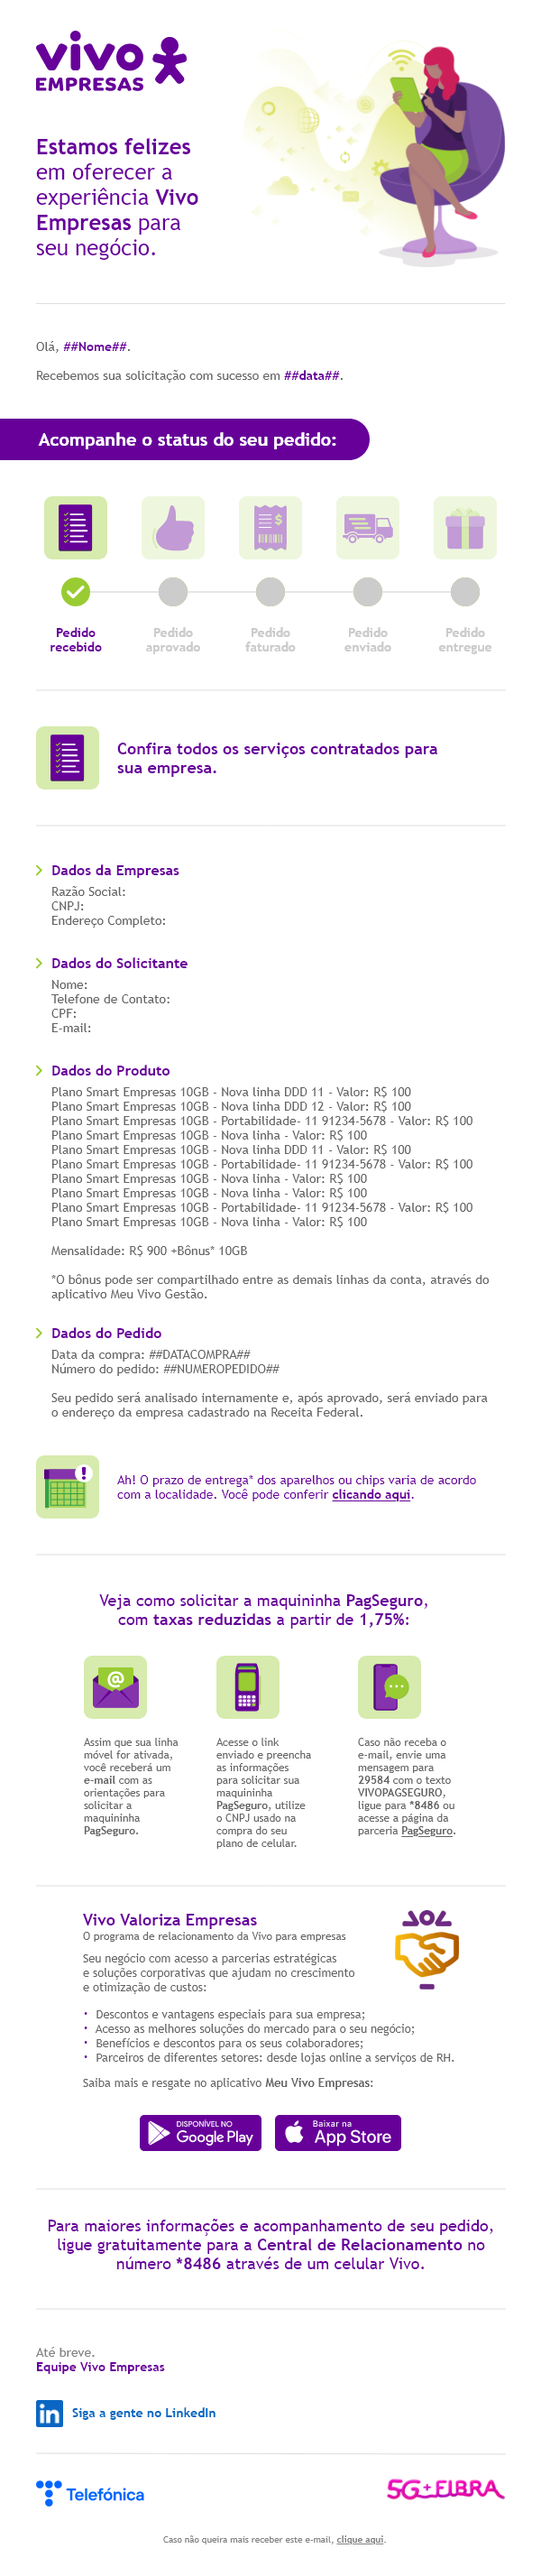
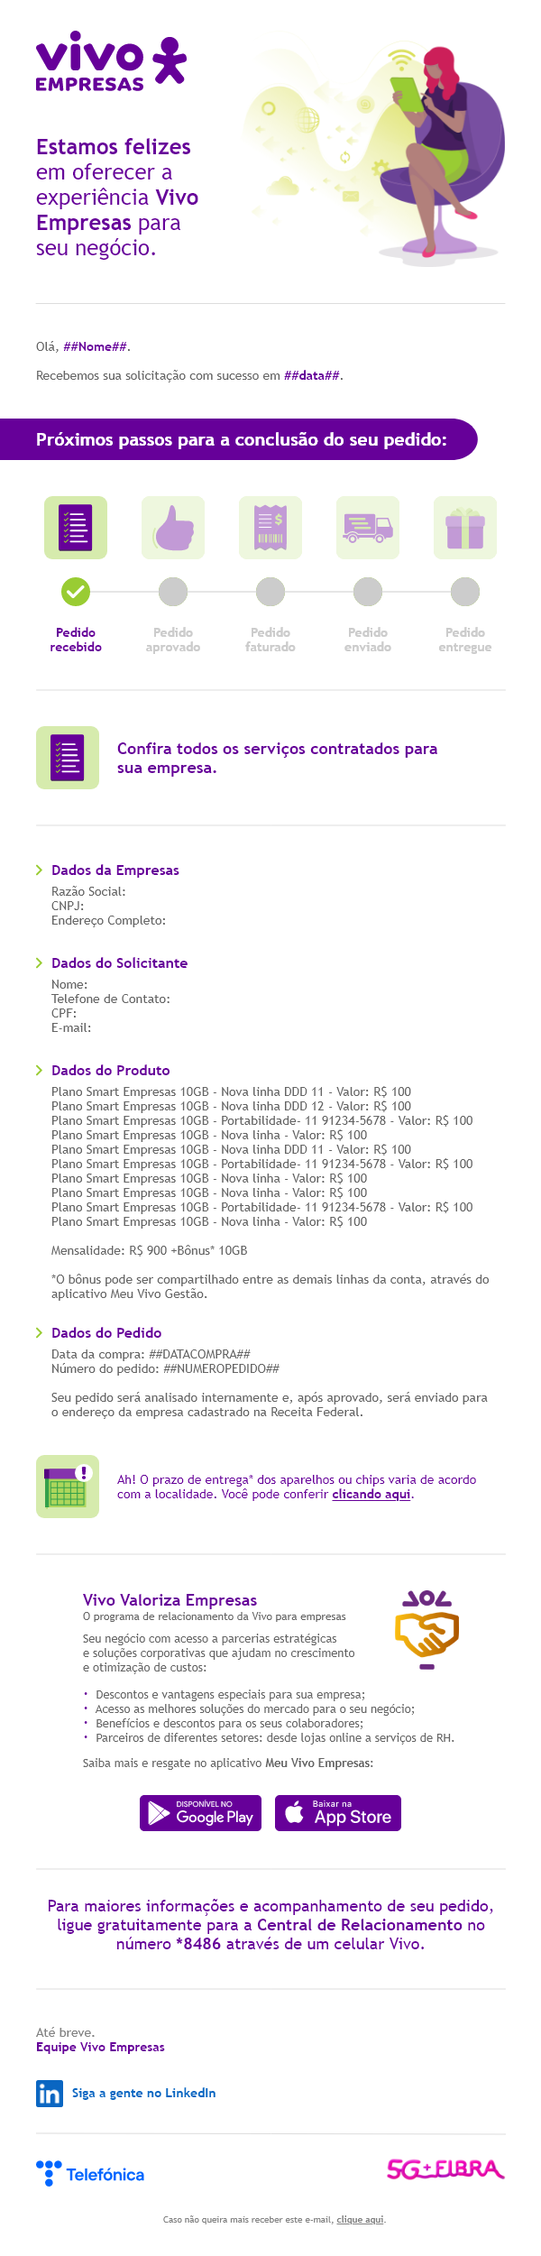
update 8780

diff --git a/2021/Vivo/073_247_8780/8780_tracking_vendas_movel_ecommerce_01_status_de_compra_hospedadas.html b/2021/Vivo/073_247_8780/8780_tracking_vendas_movel_ecommerce_01_status_de_compra_hospedadas.html
@@ -339,77 +339,8 @@
       </td>
     </tr>
     <tr>
-      <td align="center" style="padding: 40px 0 30px 0;">
-        <table border="0" cellpadding="0" cellspacing="0" width="65%">
-          <tr>
-            <td align="center">
-              <font face="Trebuchet MS, Arial, sans-serif" style="font-size: 18px; line-height: 1.2; color:#660099; display: block;">
-                Veja como solicitar a maquininha <b>PagSeguro</b>, com <b>taxas reduzidas</b> a partir de <b>1,75%</b>:
-              </font>
-            </td>
-          </tr>
-        </table>
-      </td>
-    </tr>
-    <tr>
-      <td align="center">
-        <table border="0" cellpadding="0" cellspacing="0" width="80%">
-          <tr>
-            <td>
-              <table border="0" cellpadding="0" cellspacing="0" width="110">
-                <tr>
-                  <td style="padding: 0 0 20px 0;">
-                    <img border="0" width="70" style="display: block;" src="https://www.vivo.com.br/content/dam/crm/novembro21/trackingmovel_statuscompra/mail.png" alt="">
-                  </td>
-                </tr>
-                <tr>
-                  <td height="126" valign="top">
-                    <font face="Trebuchet MS, Arial, sans-serif" style="font-size: 12px; line-height: 1.2; color:#666666; display: block;">
-                      Assim que sua linha móvel for ativada, você receberá um <b>e-mail</b> com as orientações para solicitar a maquininha <b>PagSeguro</b>.
-                    </font>
-                  </td>
-                </tr>
-              </table>
-            </td>
-            <td>
-              <table border="0" cellpadding="0" cellspacing="0" width="110">
-                <tr>
-                  <td style="padding: 0 0 20px 0;">
-                    <img border="0" width="70" style="display: block;" src="https://www.vivo.com.br/content/dam/crm/novembro21/trackingmovel_statuscompra/cell.png" alt="">
-                  </td>
-                </tr>
-                <tr>
-                  <td height="126" valign="top">
-                    <font face="Trebuchet MS, Arial, sans-serif" style="font-size: 12px; line-height: 1.2; color:#666666; display: block;">
-                      Acesse o link enviado e preencha as informações para solicitar sua maquininha <b>PagSeguro</b>, utilize o CNPJ usado na compra do seu plano de celular. 
-                    </font>
-                  </td>
-                </tr>
-              </table>
-            </td>
-            <td>
-              <table border="0" cellpadding="0" cellspacing="0" width="110">
-                <tr>
-                  <td style="padding: 0 0 20px 0;">
-                    <img border="0" width="70" style="display: block;" src="https://www.vivo.com.br/content/dam/crm/novembro21/trackingmovel_statuscompra/men.png" alt="">
-                  </td>
-                </tr>
-                <tr>
-                  <td height="126" valign="top">
-                    <font face="Trebuchet MS, Arial, sans-serif" style="font-size: 12px; line-height: 1.2; color:#666666; display: block;">
-                      Caso não receba o e-mail, envie uma mensagem para <b>29584</b> com o texto <b>VIVOPAGSEGURO</b>, ligue para <b>*8486</b> ou acesse a página da parceria <a href="https://www.vivo.com.br/para-empresas/por-que-vivo-empresas/vivo-valoriza-empresas/pagseguro?utm_source=mktcloud&utm_medium=emailmkt&utm_campaign=##ApproachStart##-Tracking-Vendas-Movel-pagseguro_vivo_b2b_movel_institucional_movel_relacionamento&utm_content=___&utm_term=##IDPlay##_" target="_blank" style="color: #666666; font-weight: bold;">PagSeguro</a>.
-                    </font>
-                  </td>
-                </tr>
-              </table>
-            </td>
-          </tr>
-        </table>
-      </td>
-    </tr>
-    <tr>
-      <td align="center" style="padding:30px 0 30px 0;">
-        <table border="0" cellpadding="0" cellspacing="0" width="88%" style="border-top: 1px solid #DDDDDD; border-bottom: 1px solid #DDDDDD;">
+      <td align="center" style="padding:20px 0 30px 0;">
+        <table border="0" cellpadding="0" cellspacing="0" width="88%">
           <tr>
             <td align="center" style="padding: 30px 0 20px 0;">
               <table border="0" cellpadding="0" cellspacing="0" width="80%" class="wd100">
@@ -479,7 +410,7 @@
             </td>
           </tr>
           <tr>
-            <td align="center" style="padding: 0 0 40px 0;">
+            <td align="center" style="padding: 0 0 10px 0;">
               <table border="0" cellpadding="0" cellspacing="0" width="70%">
                 <tr>
                   <td align="right">
@@ -504,9 +435,9 @@
     </tr>
     <tr>
       <td align="center">
-        <table  border="0" cellpadding="0" cellspacing="0" width="85%">
+        <table  border="0" cellpadding="0" cellspacing="0" width="90%" style="border-top: 1px solid #666666;">
           <tr>
-            <td align="center">
+            <td align="center" style="padding: 20px 0 0 0;">
               <font face="Trebuchet MS, Arial, sans-serif" style="font-size: 18px; line-height: 1.2; color:#660099; display: block;">
                 Para maiores informações e acompanhamento de seu pedido, ligue gratuitamente para a <b>Central de Relacionamento</b> no número <b>*8486</b> através de um celular Vivo.
               </font>

diff --git a/2021/Vivo/073_247_8780/8780_tracking_vendas_movel_ecommerce_01_status_de_compra.html b/2021/Vivo/073_247_8780/8780_tracking_vendas_movel_ecommerce_01_status_de_compra.html
@@ -339,77 +339,8 @@
       </td>
     </tr>
     <tr>
-      <td align="center" style="padding: 40px 0 30px 0;">
-        <table border="0" cellpadding="0" cellspacing="0" width="65%">
-          <tr>
-            <td align="center">
-              <font face="Trebuchet MS, Arial, sans-serif" style="font-size: 18px; line-height: 1.2; color:#660099; display: block;">
-                Veja como solicitar a maquininha <b>PagSeguro</b>, com <b>taxas reduzidas</b> a partir de <b>1,75%</b>:
-              </font>
-            </td>
-          </tr>
-        </table>
-      </td>
-    </tr>
-    <tr>
-      <td align="center">
-        <table border="0" cellpadding="0" cellspacing="0" width="80%">
-          <tr>
-            <td>
-              <table border="0" cellpadding="0" cellspacing="0" width="110">
-                <tr>
-                  <td style="padding: 0 0 20px 0;">
-                    <img border="0" width="70" style="display: block;" src="./imagens/mail.png" alt="">
-                  </td>
-                </tr>
-                <tr>
-                  <td height="126" valign="top">
-                    <font face="Trebuchet MS, Arial, sans-serif" style="font-size: 12px; line-height: 1.2; color:#666666; display: block;">
-                      Assim que sua linha móvel for ativada, você receberá um <b>e-mail</b> com as orientações para solicitar a maquininha <b>PagSeguro</b>.
-                    </font>
-                  </td>
-                </tr>
-              </table>
-            </td>
-            <td>
-              <table border="0" cellpadding="0" cellspacing="0" width="110">
-                <tr>
-                  <td style="padding: 0 0 20px 0;">
-                    <img border="0" width="70" style="display: block;" src="./imagens/cell.png" alt="">
-                  </td>
-                </tr>
-                <tr>
-                  <td height="126" valign="top">
-                    <font face="Trebuchet MS, Arial, sans-serif" style="font-size: 12px; line-height: 1.2; color:#666666; display: block;">
-                      Acesse o link enviado e preencha as informações para solicitar sua maquininha <b>PagSeguro</b>, utilize o CNPJ usado na compra do seu plano de celular. 
-                    </font>
-                  </td>
-                </tr>
-              </table>
-            </td>
-            <td>
-              <table border="0" cellpadding="0" cellspacing="0" width="110">
-                <tr>
-                  <td style="padding: 0 0 20px 0;">
-                    <img border="0" width="70" style="display: block;" src="./imagens/men.png" alt="">
-                  </td>
-                </tr>
-                <tr>
-                  <td height="126" valign="top">
-                    <font face="Trebuchet MS, Arial, sans-serif" style="font-size: 12px; line-height: 1.2; color:#666666; display: block;">
-                      Caso não receba o e-mail, envie uma mensagem para <b>29584</b> com o texto <b>VIVOPAGSEGURO</b>, ligue para <b>*8486</b> ou acesse a página da parceria <a href="https://www.vivo.com.br/para-empresas/por-que-vivo-empresas/vivo-valoriza-empresas/pagseguro?utm_source=mktcloud&utm_medium=emailmkt&utm_campaign=##ApproachStart##-Tracking-Vendas-Movel-pagseguro_vivo_b2b_movel_institucional_movel_relacionamento&utm_content=___&utm_term=##IDPlay##_" target="_blank" style="color: #666666; font-weight: bold;">PagSeguro</a>.
-                    </font>
-                  </td>
-                </tr>
-              </table>
-            </td>
-          </tr>
-        </table>
-      </td>
-    </tr>
-    <tr>
-      <td align="center" style="padding:30px 0 30px 0;">
-        <table border="0" cellpadding="0" cellspacing="0" width="88%" style="border-top: 1px solid #DDDDDD; border-bottom: 1px solid #DDDDDD;">
+      <td align="center" style="padding:20px 0 30px 0;">
+        <table border="0" cellpadding="0" cellspacing="0" width="88%">
           <tr>
             <td align="center" style="padding: 30px 0 20px 0;">
               <table border="0" cellpadding="0" cellspacing="0" width="80%" class="wd100">
@@ -479,7 +410,7 @@
             </td>
           </tr>
           <tr>
-            <td align="center" style="padding: 0 0 40px 0;">
+            <td align="center" style="padding: 0 0 10px 0;">
               <table border="0" cellpadding="0" cellspacing="0" width="70%">
                 <tr>
                   <td align="right">
@@ -504,9 +435,9 @@
     </tr>
     <tr>
       <td align="center">
-        <table  border="0" cellpadding="0" cellspacing="0" width="85%">
+        <table  border="0" cellpadding="0" cellspacing="0" width="90%" style="border-top: 1px solid #666666;">
           <tr>
-            <td align="center">
+            <td align="center" style="padding: 20px 0 0 0;">
               <font face="Trebuchet MS, Arial, sans-serif" style="font-size: 18px; line-height: 1.2; color:#660099; display: block;">
                 Para maiores informações e acompanhamento de seu pedido, ligue gratuitamente para a <b>Central de Relacionamento</b> no número <b>*8486</b> através de um celular Vivo.
               </font>

diff --git a/2021/Vivo/073_247_8780/8780_tracking_vendas_movel_ecommerce_01_status_de_compra_1_hospedadas.html b/2021/Vivo/073_247_8780/8780_tracking_vendas_movel_ecommerce_01_status_de_compra_1_hospedadas.html
@@ -312,9 +312,9 @@
     </tr>
     <tr>
       <td align="center">
-        <table border="0" cellpadding="0" cellspacing="0" width="88%" style="border-bottom: 1px solid #DDDDDD;">
+        <table border="0" cellpadding="0" cellspacing="0" width="88%">
           <tr>
-            <td align="left" style="padding: 40px 0 40px 0;">
+            <td align="left" style="padding: 40px 0 20px 0;">
               <table border="0" cellpadding="0" cellspacing="0" width="90%">
                 <tr>
                   <td align="left" width="90">
@@ -323,75 +323,6 @@
                   <td>
                     <font face="Trebuchet MS, Arial, sans-serif" style="font-size: 14px; line-height: 1.2; color:#660099; display: block;">
                       Ah! O prazo de entrega* dos aparelhos ou chips varia de acordo com a localidade. Você pode conferir <a href="https://www.vivo.com.br/content/dam/vivo-sites/vivo-com-br/homepage/pdf/Prazos-Por-Regiao-Portabilidade.pdf?utm_source=mktcloud&utm_medium=emailmkt&utm_campaign=##ApproachStart##-Tracking-Vendas-Movel-prazo-entrega_vivo_b2b_movel_institucional_movel_relacionamento&utm_content=___&utm_term=##IDPlay##_" target="_blank" style="color: #660099; font-weight: bold;">clicando aqui</a>.
-                    </font>
-                  </td>
-                </tr>
-              </table>
-            </td>
-          </tr>
-        </table>
-      </td>
-    </tr>
-    <tr>
-      <td align="center" style="padding: 40px 0 30px 0;">
-        <table border="0" cellpadding="0" cellspacing="0" width="65%">
-          <tr>
-            <td align="center">
-              <font face="Trebuchet MS, Arial, sans-serif" style="font-size: 18px; line-height: 1.2; color:#660099; display: block;">
-                Veja como solicitar a maquininha <b>PagSeguro</b>, com <b>taxas reduzidas</b> a partir de <b>1,75%</b>:
-              </font>
-            </td>
-          </tr>
-        </table>
-      </td>
-    </tr>
-    <tr>
-      <td align="center">
-        <table border="0" cellpadding="0" cellspacing="0" width="80%">
-          <tr>
-            <td>
-              <table border="0" cellpadding="0" cellspacing="0" width="110">
-                <tr>
-                  <td style="padding: 0 0 20px 0;">
-                    <img border="0" width="70" style="display: block;" src="https://www.vivo.com.br/content/dam/crm/novembro21/trackingmovel_statuscompra/mail.png" alt="">
-                  </td>
-                </tr>
-                <tr>
-                  <td height="126" valign="top">
-                    <font face="Trebuchet MS, Arial, sans-serif" style="font-size: 12px; line-height: 1.2; color:#666666; display: block;">
-                      Assim que sua linha móvel for ativada, você receberá um <b>e-mail</b> com as orientações para solicitar a maquininha <b>PagSeguro</b>.
-                    </font>
-                  </td>
-                </tr>
-              </table>
-            </td>
-            <td>
-              <table border="0" cellpadding="0" cellspacing="0" width="110">
-                <tr>
-                  <td style="padding: 0 0 20px 0;">
-                    <img border="0" width="70" style="display: block;" src="https://www.vivo.com.br/content/dam/crm/novembro21/trackingmovel_statuscompra/cell.png" alt="">
-                  </td>
-                </tr>
-                <tr>
-                  <td height="126" valign="top">
-                    <font face="Trebuchet MS, Arial, sans-serif" style="font-size: 12px; line-height: 1.2; color:#666666; display: block;">
-                      Acesse o link enviado e preencha as informações para solicitar sua maquininha <b>PagSeguro</b>, utilize o CNPJ usado na compra do seu plano de celular. 
-                    </font>
-                  </td>
-                </tr>
-              </table>
-            </td>
-            <td>
-              <table border="0" cellpadding="0" cellspacing="0" width="110">
-                <tr>
-                  <td style="padding: 0 0 20px 0;">
-                    <img border="0" width="70" style="display: block;" src="https://www.vivo.com.br/content/dam/crm/novembro21/trackingmovel_statuscompra/men.png" alt="">
-                  </td>
-                </tr>
-                <tr>
-                  <td height="126" valign="top">
-                    <font face="Trebuchet MS, Arial, sans-serif" style="font-size: 12px; line-height: 1.2; color:#666666; display: block;">
-                      Caso não receba o e-mail, envie uma mensagem para <b>29584</b> com o texto <b>VIVOPAGSEGURO</b>, ligue para <b>*8486</b> ou acesse a página da parceria <a href="https://www.vivo.com.br/para-empresas/por-que-vivo-empresas/vivo-valoriza-empresas/pagseguro?utm_source=mktcloud&utm_medium=emailmkt&utm_campaign=##ApproachStart##-Tracking-Vendas-Movel-pagseguro_vivo_b2b_movel_institucional_movel_relacionamento&utm_content=___&utm_term=##IDPlay##_" target="_blank" style="color: #666666; font-weight: bold;">PagSeguro</a>.
                     </font>
                   </td>
                 </tr>

diff --git a/2021/Vivo/073_247_8780/8780_tracking_vendas_movel_ecommerce_01_status_de_compra_1.html b/2021/Vivo/073_247_8780/8780_tracking_vendas_movel_ecommerce_01_status_de_compra_1.html
@@ -312,9 +312,9 @@
     </tr>
     <tr>
       <td align="center">
-        <table border="0" cellpadding="0" cellspacing="0" width="88%" style="border-bottom: 1px solid #DDDDDD;">
+        <table border="0" cellpadding="0" cellspacing="0" width="88%">
           <tr>
-            <td align="left" style="padding: 40px 0 40px 0;">
+            <td align="left" style="padding: 40px 0 20px 0;">
               <table border="0" cellpadding="0" cellspacing="0" width="90%">
                 <tr>
                   <td align="left" width="90">
@@ -323,75 +323,6 @@
                   <td>
                     <font face="Trebuchet MS, Arial, sans-serif" style="font-size: 14px; line-height: 1.2; color:#660099; display: block;">
                       Ah! O prazo de entrega* dos aparelhos ou chips varia de acordo com a localidade. Você pode conferir <a href="https://www.vivo.com.br/content/dam/vivo-sites/vivo-com-br/homepage/pdf/Prazos-Por-Regiao-Portabilidade.pdf?utm_source=mktcloud&utm_medium=emailmkt&utm_campaign=##ApproachStart##-Tracking-Vendas-Movel-prazo-entrega_vivo_b2b_movel_institucional_movel_relacionamento&utm_content=___&utm_term=##IDPlay##_" target="_blank" style="color: #660099; font-weight: bold;">clicando aqui</a>.
-                    </font>
-                  </td>
-                </tr>
-              </table>
-            </td>
-          </tr>
-        </table>
-      </td>
-    </tr>
-    <tr>
-      <td align="center" style="padding: 40px 0 30px 0;">
-        <table border="0" cellpadding="0" cellspacing="0" width="65%">
-          <tr>
-            <td align="center">
-              <font face="Trebuchet MS, Arial, sans-serif" style="font-size: 18px; line-height: 1.2; color:#660099; display: block;">
-                Veja como solicitar a maquininha <b>PagSeguro</b>, com <b>taxas reduzidas</b> a partir de <b>1,75%</b>:
-              </font>
-            </td>
-          </tr>
-        </table>
-      </td>
-    </tr>
-    <tr>
-      <td align="center">
-        <table border="0" cellpadding="0" cellspacing="0" width="80%">
-          <tr>
-            <td>
-              <table border="0" cellpadding="0" cellspacing="0" width="110">
-                <tr>
-                  <td style="padding: 0 0 20px 0;">
-                    <img border="0" width="70" style="display: block;" src="./imagens/mail.png" alt="">
-                  </td>
-                </tr>
-                <tr>
-                  <td height="126" valign="top">
-                    <font face="Trebuchet MS, Arial, sans-serif" style="font-size: 12px; line-height: 1.2; color:#666666; display: block;">
-                      Assim que sua linha móvel for ativada, você receberá um <b>e-mail</b> com as orientações para solicitar a maquininha <b>PagSeguro</b>.
-                    </font>
-                  </td>
-                </tr>
-              </table>
-            </td>
-            <td>
-              <table border="0" cellpadding="0" cellspacing="0" width="110">
-                <tr>
-                  <td style="padding: 0 0 20px 0;">
-                    <img border="0" width="70" style="display: block;" src="./imagens/cell.png" alt="">
-                  </td>
-                </tr>
-                <tr>
-                  <td height="126" valign="top">
-                    <font face="Trebuchet MS, Arial, sans-serif" style="font-size: 12px; line-height: 1.2; color:#666666; display: block;">
-                      Acesse o link enviado e preencha as informações para solicitar sua maquininha <b>PagSeguro</b>, utilize o CNPJ usado na compra do seu plano de celular. 
-                    </font>
-                  </td>
-                </tr>
-              </table>
-            </td>
-            <td>
-              <table border="0" cellpadding="0" cellspacing="0" width="110">
-                <tr>
-                  <td style="padding: 0 0 20px 0;">
-                    <img border="0" width="70" style="display: block;" src="./imagens/men.png" alt="">
-                  </td>
-                </tr>
-                <tr>
-                  <td height="126" valign="top">
-                    <font face="Trebuchet MS, Arial, sans-serif" style="font-size: 12px; line-height: 1.2; color:#666666; display: block;">
-                      Caso não receba o e-mail, envie uma mensagem para <b>29584</b> com o texto <b>VIVOPAGSEGURO</b>, ligue para <b>*8486</b> ou acesse a página da parceria <a href="https://www.vivo.com.br/para-empresas/por-que-vivo-empresas/vivo-valoriza-empresas/pagseguro?utm_source=mktcloud&utm_medium=emailmkt&utm_campaign=##ApproachStart##-Tracking-Vendas-Movel-pagseguro_vivo_b2b_movel_institucional_movel_relacionamento&utm_content=___&utm_term=##IDPlay##_" target="_blank" style="color: #666666; font-weight: bold;">PagSeguro</a>.
                     </font>
                   </td>
                 </tr>
